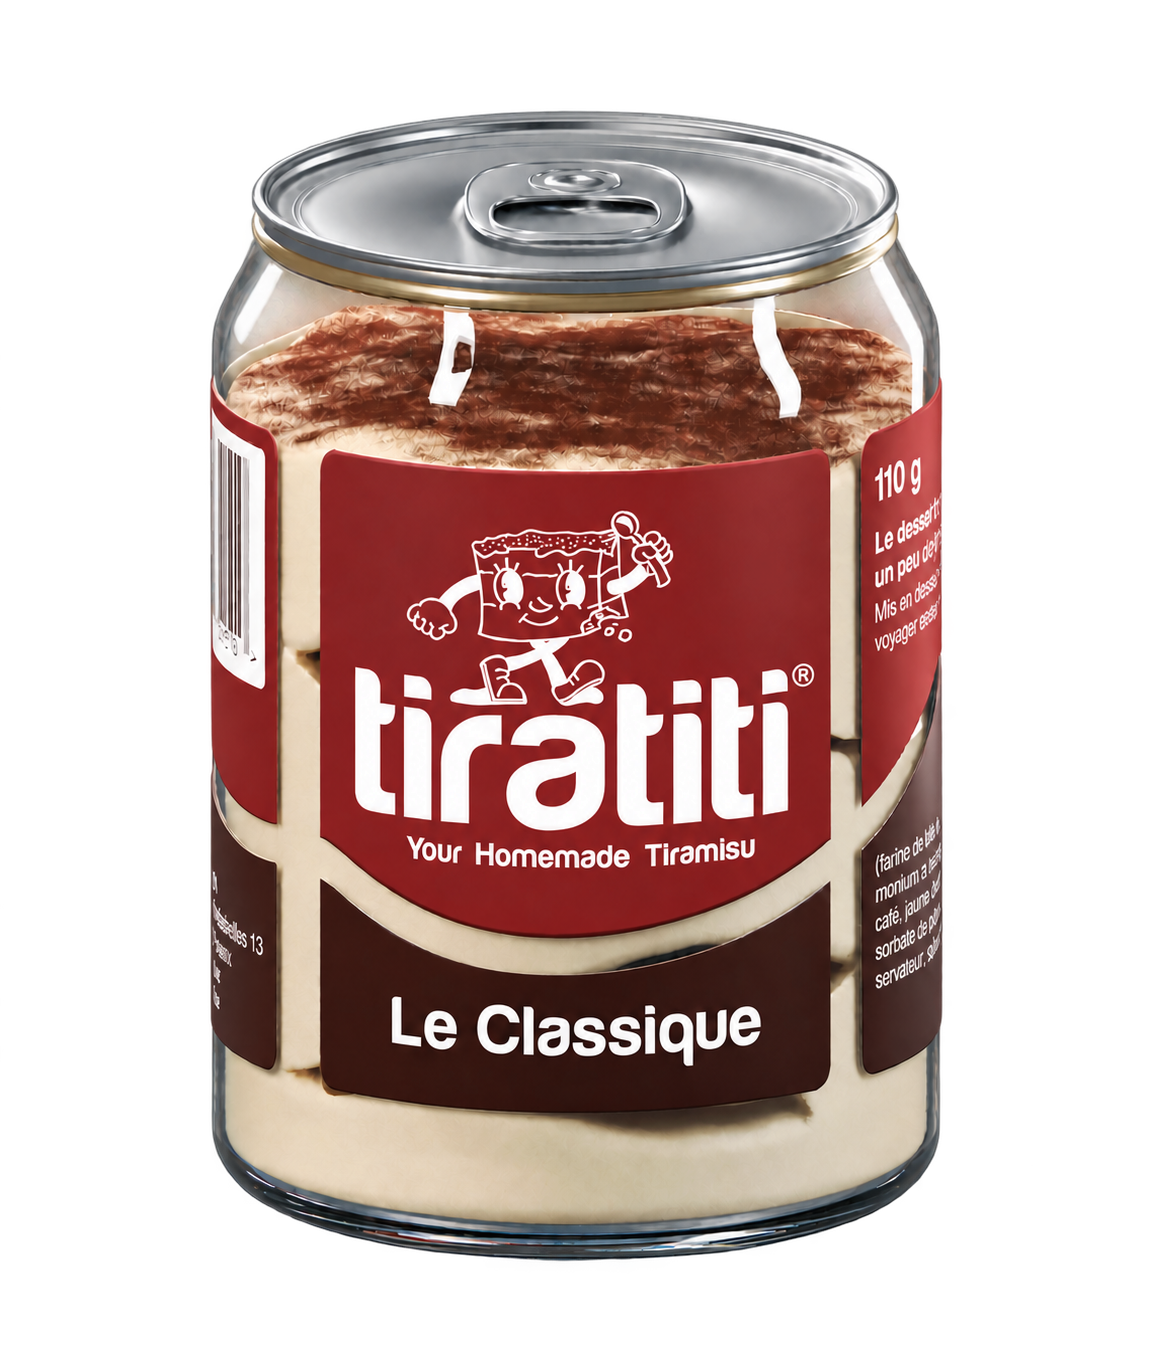
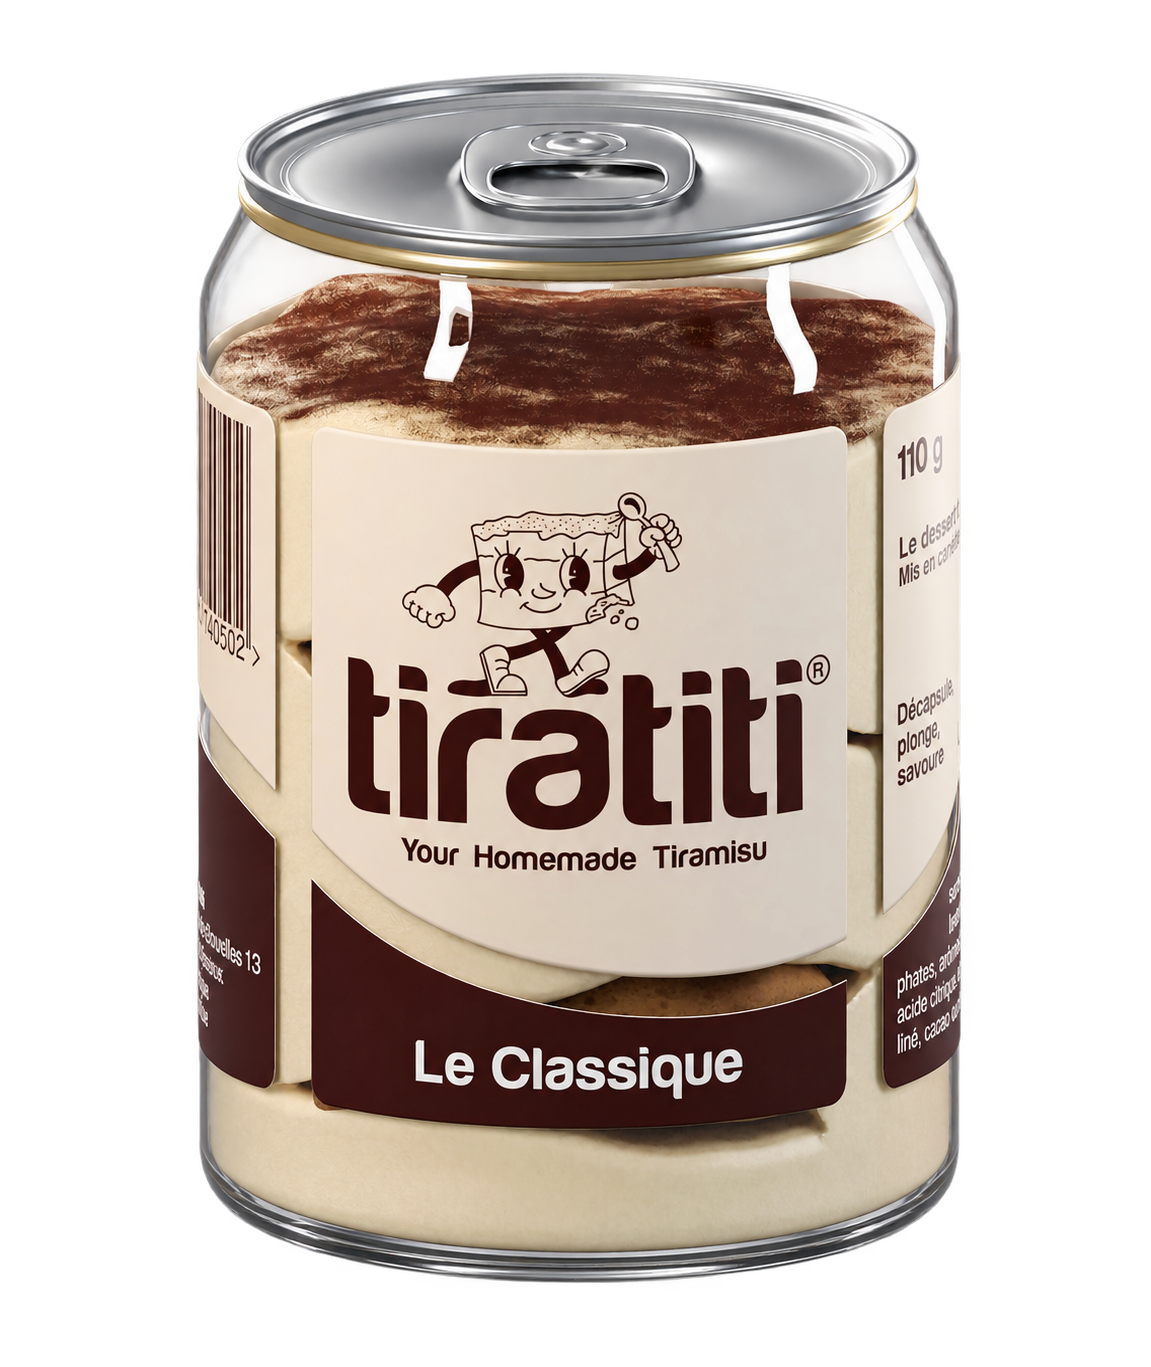
Use the cream label can and matching inverted background colors

diff --git a/index.html b/index.html
@@ -5,7 +5,7 @@
   <meta name="viewport" content="width=device-width, initial-scale=1.0">
   <title>Tiratiti · On arrive</title>
   <meta name="description" content="Tiratiti — le vrai tiramisu italien, fait maison. On arrive, prépare ta cuillère.">
-  <meta name="theme-color" content="#371712">
+  <meta name="theme-color" content="#3a1210">
 
   <meta property="og:type" content="website">
   <meta property="og:title" content="Tiratiti · On arrive">
@@ -34,9 +34,9 @@
 
     :root {
       /* Couleurs écran relevées dans l'étiquette Le Classique fournie. */
-      --red: #891e20;
+      --label-cream: #e3d3c3;
       --cream: #f6f3ee;
-      --brown: #371712;
+      --brown: #3a1210;
       --white: #fff;
       --font-display: "Inter Tight", sans-serif;
       --font-body: "Helvetica Neue", Helvetica, Arial, sans-serif;
@@ -74,7 +74,7 @@
     }
 
     .wave { fill: var(--white); }
-    .chocolate { fill: var(--red); }
+    .lower-background { fill: var(--label-cream); }
 
     .intro {
       position: relative;
@@ -118,8 +118,8 @@
       left: 50%;
       z-index: 0;
       display: block;
-      width: clamp(300px, 64vh, 700px);
-      width: clamp(300px, 64svh, 700px);
+      width: clamp(300px, 60vh, 700px);
+      width: clamp(300px, 60svh, 700px);
       max-width: none;
       height: auto;
       transform: translate(-50%, 6%);
@@ -155,7 +155,7 @@
   <main class="page">
     <svg class="background" viewBox="0 0 1440 1000" preserveAspectRatio="none" aria-hidden="true" focusable="false">
       <path class="wave" d="M0 690 C300 860 650 530 950 640 C1150 714 1300 780 1440 700 V1000 H0 Z"/>
-      <path class="chocolate" d="M0 714 C300 884 650 554 950 664 C1150 738 1300 804 1440 724 V1000 H0 Z"/>
+      <path class="lower-background" d="M0 714 C300 884 650 554 950 664 C1150 738 1300 804 1440 724 V1000 H0 Z"/>
     </svg>
 
     <div class="intro">
@@ -164,7 +164,7 @@
       <p>Les premiers points de vente Tiratiti seront annoncés ici. Encore un peu de patience&nbsp;: on prépare notre entrée au rayon frais.</p>
     </div>
 
-    <img class="canette" src="canette-classique.png" alt="Canette de tiramisu Tiratiti Le Classique" width="1150" height="1367" fetchpriority="high" decoding="async">
+    <img class="canette" src="canette-classique.png" alt="Canette de tiramisu Tiratiti Le Classique" width="1151" height="1367" fetchpriority="high" decoding="async">
   </main>
 </body>
 </html>
